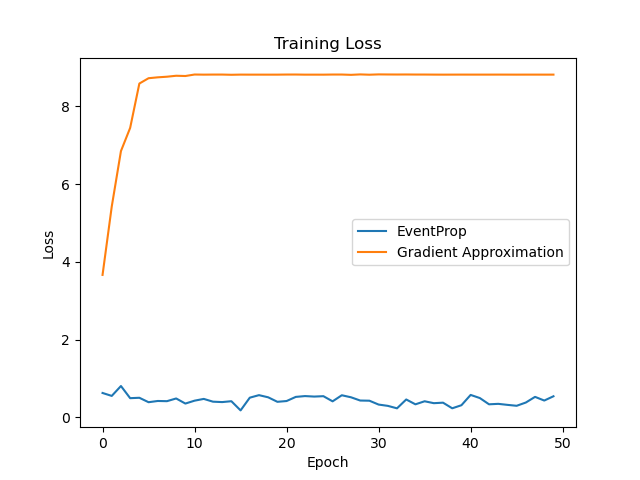
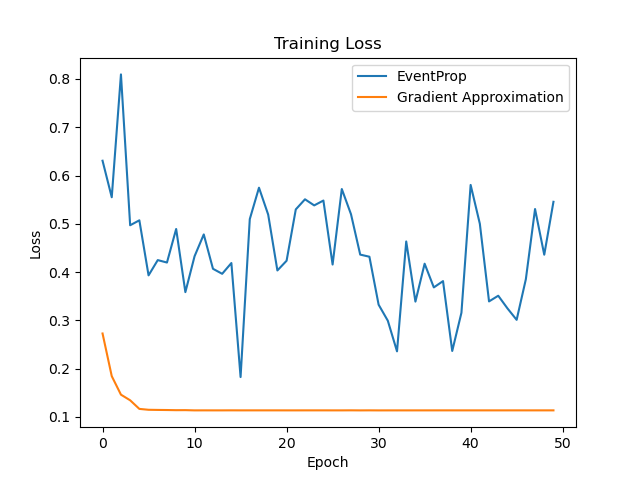
updated plot images
- loss is now correctly plotted

diff --git a/plot_results.py b/plot_results.py
@@ -21,7 +21,7 @@ x = range(len(train_loss_ga))
 
 # Plot EventProp and Grad Approx. training loss
 plt.plot(x, train_loss_eve, '-', label='EventProp')
-plt.plot(x, train_loss_ga, '-', label='Gradient Approximation')
+plt.plot(x, 1/train_loss_ga, '-', label='Gradient Approximation')
 
 plt.legend(loc='best')
 
